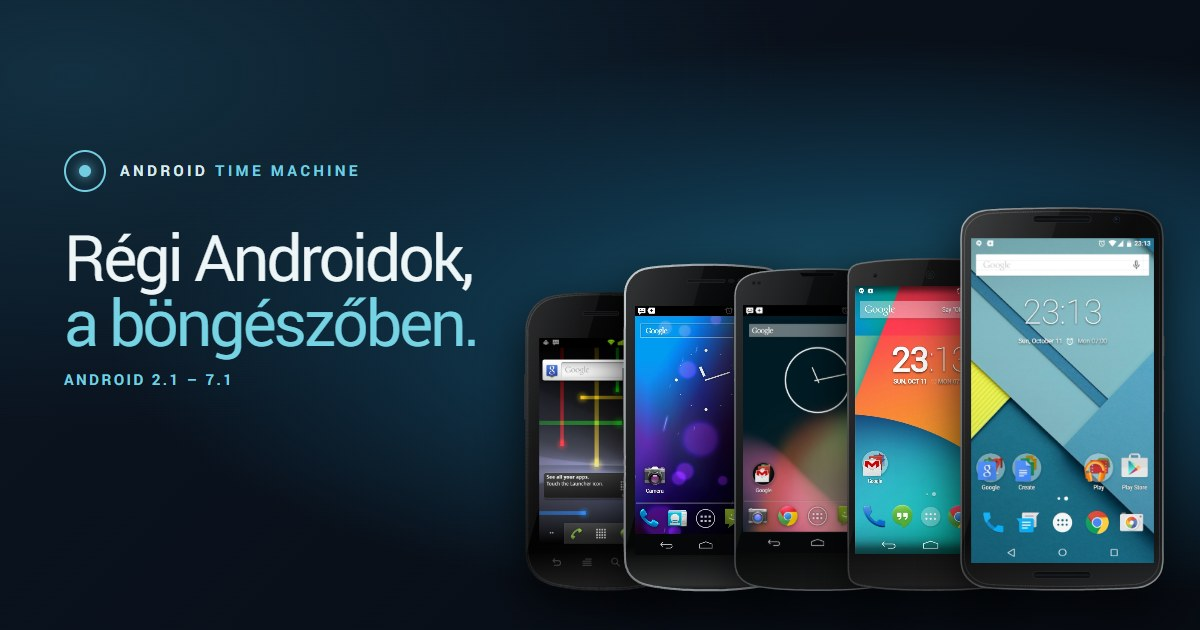
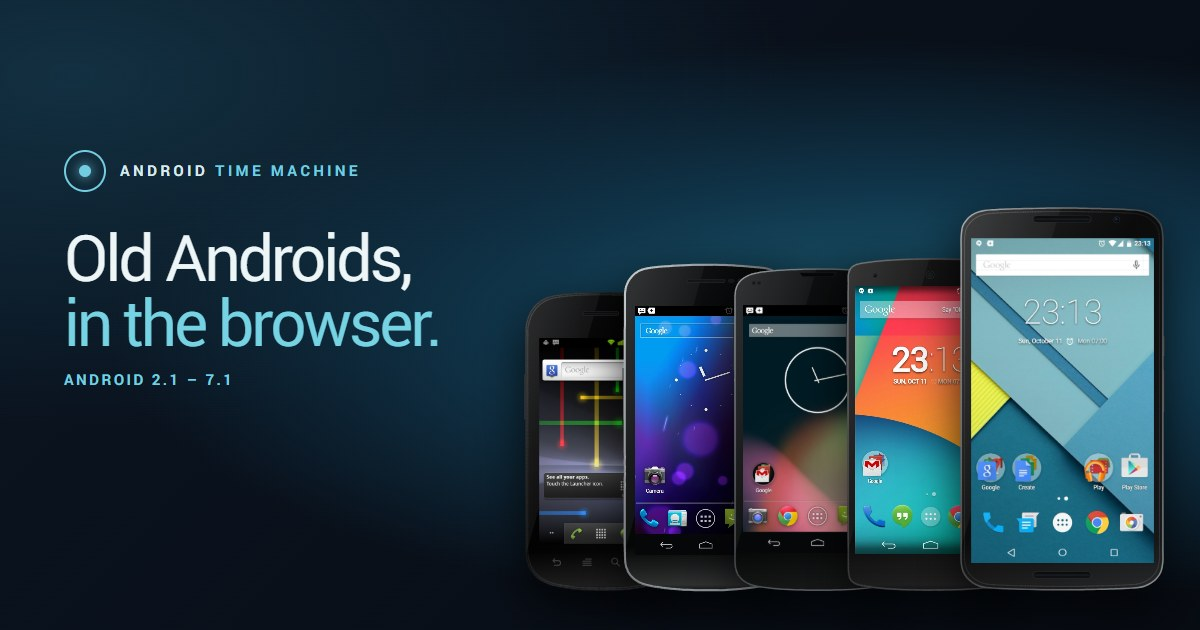
Default SEO and social previews to English and add Hungarian cover variant

Changed region(s): [[0.0617, 0.3619, 0.4008, 0.573]]

diff --git a/versions/2.3.6/index.html b/versions/2.3.6/index.html
@@ -4,19 +4,27 @@
   <meta charset="utf-8">
   <meta name="viewport" content="width=device-width, initial-scale=1, viewport-fit=cover, interactive-widget=resizes-content">
   <meta name="theme-color" content="#080b10">
-  <meta name="description" content="Android 2.3.6 Gingerbread szimulátor a Nexus S-en: érintőgombok az üveg alatt, csúszkás zárolóképernyő, a Menü gombbal nyíló opciópanelek és a zombi Gingerbread húsvéti tojás.">
-  <title>Android 2.3.6 · Android Time Machine</title>
+  <meta name="description" content="Touch keys under the glass, the SlidingTab lock screen, option panels behind the Menu key, green status icons and the zombie Gingerbread easter egg.">
+  <title>Android 2.3.6 Gingerbread Â· Android Time Machine</title>
   <meta property="og:type" content="website">
   <meta property="og:site_name" content="Android Time Machine">
-  <meta property="og:locale" content="hu_HU">
-  <meta property="og:title" content="Android 2.3.6 Gingerbread – Nexus S szimulátor">
-  <meta property="og:description" content="Érintőgombok az üveg alatt, csúszkás zárolóképernyő, a Menü gombbal nyíló opciópanelek, zöld állapotikonok és a zombi Gingerbread húsvéti tojás.">
+  <meta property="og:locale" content="en_US">
+  <meta property="og:locale:alternate" content="hu_HU">
+  <meta property="og:locale:alternate" content="de_DE">
+  <meta property="og:locale:alternate" content="fr_FR">
+  <meta property="og:locale:alternate" content="es_ES">
+  <meta property="og:title" content="Android 2.3.6 Gingerbread â€“ Nexus S · Google simulator">
+  <meta property="og:description" content="Touch keys under the glass, the SlidingTab lock screen, option panels behind the Menu key, green status icons and the zombie Gingerbread easter egg.">
   <meta property="og:url" content="https://android.levente.net/versions/2.3.6/">
-  <meta property="og:image" content="https://android.levente.net/assets/og-cover.jpg?v=17">
+  <meta property="og:image" content="https://android.levente.net/assets/og-cover.jpg?v=18">
   <meta property="og:image:type" content="image/jpeg">
   <meta property="og:image:width" content="1200">
   <meta property="og:image:height" content="630">
-  <meta property="og:image:alt" content="Öt Nexus telefon egymás mellett a saját Android-verziójával: Nexus S (2.3), Galaxy Nexus (4.0), Nexus 4 (4.3), Nexus 5 (4.4) és Nexus 6 (5.1), mellettük az Android Time Machine felirat.">
+  <meta property="og:image:alt" content="Five Nexus phones showing their Android home screens beside the Android Time Machine title.">
+  <meta name="twitter:title" content="Android 2.3.6 Gingerbread â€“ Nexus S · Google simulator">
+  <meta name="twitter:description" content="Touch keys under the glass, the SlidingTab lock screen, option panels behind the Menu key, green status icons and the zombie Gingerbread easter egg.">
+  <meta name="twitter:image" content="https://android.levente.net/assets/og-cover.jpg?v=18">
+  <meta name="twitter:image:alt" content="Five Nexus phones showing their Android home screens beside the Android Time Machine title.">
   <meta name="twitter:card" content="summary_large_image">
   <link rel="icon" type="image/svg+xml" href="../../favicon.svg">
   <link rel="stylesheet" href="style.css?v=52">

diff --git a/index.html b/index.html
@@ -4,19 +4,27 @@
   <meta charset="utf-8">
   <meta name="viewport" content="width=device-width, initial-scale=1">
   <meta name="theme-color" content="#090d17">
-  <meta name="description" content="Régi Android-verziók a böngészőben: az Eclair, a Gingerbread, az Ice Cream Sandwich, a Jelly Bean, a KitKat, a Lollipop, a Marshmallow és a Nougat azon a Nexus telefonon, amelyen megjelent. Telepítés nélkül, azonnal.">
+  <meta name="description" content="Explore Android 2.1â€“7.1 on classic Nexus phones: home screens, notifications, settings and apps, in your browser. Nothing to install.">
   <title>Android Time Machine</title>
   <meta property="og:type" content="website">
   <meta property="og:site_name" content="Android Time Machine">
-  <meta property="og:locale" content="hu_HU">
-  <meta property="og:title" content="Android Time Machine – régi Androidok a böngészőben">
-  <meta property="og:description" content="Android 2.1–7.1 a Nexus One-on, a Nexus S-en, a Galaxy Nexuson, a Nexus 4-en, a Nexus 5-ön, a Nexus 6-on, a Nexus 5X-en és a Nexus 6P-n: kezdőképernyő, értesítések, beállítások és alkalmazások – telepítés nélkül.">
+  <meta property="og:locale" content="en_US">
+  <meta property="og:locale:alternate" content="hu_HU">
+  <meta property="og:locale:alternate" content="de_DE">
+  <meta property="og:locale:alternate" content="fr_FR">
+  <meta property="og:locale:alternate" content="es_ES">
+  <meta property="og:title" content="Android Time Machine â€“ old Androids in the browser">
+  <meta property="og:description" content="Explore Android 2.1â€“7.1 on classic Nexus phones: home screens, notifications, settings and apps, in your browser. Nothing to install.">
   <meta property="og:url" content="https://android.levente.net/">
-  <meta property="og:image" content="https://android.levente.net/assets/og-cover.jpg?v=17">
+  <meta property="og:image" content="https://android.levente.net/assets/og-cover.jpg?v=18">
   <meta property="og:image:type" content="image/jpeg">
   <meta property="og:image:width" content="1200">
   <meta property="og:image:height" content="630">
-  <meta property="og:image:alt" content="Öt Nexus telefon egymás mellett a saját Android-verziójával: Nexus S (2.3), Galaxy Nexus (4.0), Nexus 4 (4.3), Nexus 5 (4.4) és Nexus 6 (5.1), mellettük az Android Time Machine felirat.">
+  <meta property="og:image:alt" content="Five Nexus phones showing their Android home screens beside the Android Time Machine title.">
+  <meta name="twitter:title" content="Android Time Machine â€“ old Androids in the browser">
+  <meta name="twitter:description" content="Explore Android 2.1â€“7.1 on classic Nexus phones: home screens, notifications, settings and apps, in your browser. Nothing to install.">
+  <meta name="twitter:image" content="https://android.levente.net/assets/og-cover.jpg?v=18">
+  <meta name="twitter:image:alt" content="Five Nexus phones showing their Android home screens beside the Android Time Machine title.">
   <meta name="twitter:card" content="summary_large_image">
   <link rel="icon" type="image/svg+xml" href="favicon.svg">
   <link rel="stylesheet" href="styles.css?v=27">

diff --git a/versions/5.1.1/index.html b/versions/5.1.1/index.html
@@ -4,19 +4,27 @@
   <meta charset="utf-8">
   <meta name="viewport" content="width=device-width, initial-scale=1, viewport-fit=cover, interactive-widget=resizes-content">
   <meta name="theme-color" content="#080b10">
-  <meta name="description" content="Android 5.1.1 Lollipop szimulátor a gyári Nexus 6-on: Material Design, Google Now Launcher, felugró értesítések, Áttekintés-kártyák, Smart Lock és a Lollipop Land húsvéti tojás.">
-  <title>Android 5.1.1 · Android Time Machine</title>
+  <meta name="description" content="Material Design, the new notification shade, heads-up notifications, Overview cards and the Lollipop Land easter egg.">
+  <title>Android 5.1.1 Lollipop Â· Android Time Machine</title>
   <meta property="og:type" content="website">
   <meta property="og:site_name" content="Android Time Machine">
-  <meta property="og:locale" content="hu_HU">
-  <meta property="og:title" content="Android 5.1.1 Lollipop – Nexus 6 szimulátor">
-  <meta property="og:description" content="Material Design, Google Now Launcher, felugró értesítések, Áttekintés-kártyák, Smart Lock és a Lollipop Land húsvéti tojás.">
+  <meta property="og:locale" content="en_US">
+  <meta property="og:locale:alternate" content="hu_HU">
+  <meta property="og:locale:alternate" content="de_DE">
+  <meta property="og:locale:alternate" content="fr_FR">
+  <meta property="og:locale:alternate" content="es_ES">
+  <meta property="og:title" content="Android 5.1.1 Lollipop â€“ Nexus 6 · Google simulator">
+  <meta property="og:description" content="Material Design, the new notification shade, heads-up notifications, Overview cards and the Lollipop Land easter egg.">
   <meta property="og:url" content="https://android.levente.net/versions/5.1.1/">
-  <meta property="og:image" content="https://android.levente.net/assets/og-cover.jpg?v=17">
+  <meta property="og:image" content="https://android.levente.net/assets/og-cover.jpg?v=18">
   <meta property="og:image:type" content="image/jpeg">
   <meta property="og:image:width" content="1200">
   <meta property="og:image:height" content="630">
-  <meta property="og:image:alt" content="Öt Nexus telefon egymás mellett a saját Android-verziójával: Nexus S (2.3), Galaxy Nexus (4.0), Nexus 4 (4.3), Nexus 5 (4.4) és Nexus 6 (5.1), mellettük az Android Time Machine felirat.">
+  <meta property="og:image:alt" content="Five Nexus phones showing their Android home screens beside the Android Time Machine title.">
+  <meta name="twitter:title" content="Android 5.1.1 Lollipop â€“ Nexus 6 · Google simulator">
+  <meta name="twitter:description" content="Material Design, the new notification shade, heads-up notifications, Overview cards and the Lollipop Land easter egg.">
+  <meta name="twitter:image" content="https://android.levente.net/assets/og-cover.jpg?v=18">
+  <meta name="twitter:image:alt" content="Five Nexus phones showing their Android home screens beside the Android Time Machine title.">
   <meta name="twitter:card" content="summary_large_image">
   <link rel="icon" type="image/svg+xml" href="../../favicon.svg">
   <link rel="stylesheet" href="style.css?v=29">

diff --git a/versions/4.0.4/index.html b/versions/4.0.4/index.html
@@ -4,19 +4,27 @@
   <meta charset="utf-8">
   <meta name="viewport" content="width=device-width, initial-scale=1, viewport-fit=cover, interactive-widget=resizes-content">
   <meta name="theme-color" content="#080b10">
-  <meta name="description" content="Android 4.0.4 Ice Cream Sandwich szimulátor a Galaxy Nexuson: Holo dizájn, képernyős navigációs gombok, mappák, kamera a zárolóképernyőről és a Nyandroid húsvéti tojás.">
-  <title>Android 4.0.4 · Android Time Machine</title>
+  <meta name="description" content="Holo design, on-screen navigation keys, folders, the lock-screen camera and the Nyandroid easter egg.">
+  <title>Android 4.0.4 Ice Cream Sandwich Â· Android Time Machine</title>
   <meta property="og:type" content="website">
   <meta property="og:site_name" content="Android Time Machine">
-  <meta property="og:locale" content="hu_HU">
-  <meta property="og:title" content="Android 4.0.4 Ice Cream Sandwich – Galaxy Nexus szimulátor">
-  <meta property="og:description" content="Holo dizájn, képernyős navigációs gombok, mappák, kamera a zárolóképernyőről és a Nyandroid húsvéti tojás.">
+  <meta property="og:locale" content="en_US">
+  <meta property="og:locale:alternate" content="hu_HU">
+  <meta property="og:locale:alternate" content="de_DE">
+  <meta property="og:locale:alternate" content="fr_FR">
+  <meta property="og:locale:alternate" content="es_ES">
+  <meta property="og:title" content="Android 4.0.4 Ice Cream Sandwich â€“ Galaxy Nexus · Google simulator">
+  <meta property="og:description" content="Holo design, on-screen navigation keys, folders, the lock-screen camera and the Nyandroid easter egg.">
   <meta property="og:url" content="https://android.levente.net/versions/4.0.4/">
-  <meta property="og:image" content="https://android.levente.net/assets/og-cover.jpg?v=17">
+  <meta property="og:image" content="https://android.levente.net/assets/og-cover.jpg?v=18">
   <meta property="og:image:type" content="image/jpeg">
   <meta property="og:image:width" content="1200">
   <meta property="og:image:height" content="630">
-  <meta property="og:image:alt" content="Öt Nexus telefon egymás mellett a saját Android-verziójával: Nexus S (2.3), Galaxy Nexus (4.0), Nexus 4 (4.3), Nexus 5 (4.4) és Nexus 6 (5.1), mellettük az Android Time Machine felirat.">
+  <meta property="og:image:alt" content="Five Nexus phones showing their Android home screens beside the Android Time Machine title.">
+  <meta name="twitter:title" content="Android 4.0.4 Ice Cream Sandwich â€“ Galaxy Nexus · Google simulator">
+  <meta name="twitter:description" content="Holo design, on-screen navigation keys, folders, the lock-screen camera and the Nyandroid easter egg.">
+  <meta name="twitter:image" content="https://android.levente.net/assets/og-cover.jpg?v=18">
+  <meta name="twitter:image:alt" content="Five Nexus phones showing their Android home screens beside the Android Time Machine title.">
   <meta name="twitter:card" content="summary_large_image">
   <link rel="icon" type="image/svg+xml" href="../../favicon.svg">
   <link rel="stylesheet" href="style.css?v=55">

diff --git a/versions/7.1.2/index.html b/versions/7.1.2/index.html
@@ -4,19 +4,27 @@
   <meta charset="utf-8">
   <meta name="viewport" content="width=device-width, initial-scale=1, viewport-fit=cover, interactive-widget=resizes-content">
   <meta name="theme-color" content="#080b10">
-  <meta name="description" content="Android 7.1.2 Nougat a Nexus 6P-n, a böngészőben: osztott képernyő, csoportosított értesítések, közvetlen válasz, alkalmazások és beállítások. Telepítés nélkül.">
-  <title>Android 7.1.2 · Android Time Machine</title>
+  <meta name="description" content="Split-screen apps, bundled notifications with direct reply, editable quick settings, launcher shortcuts and the Nougat cat easter egg.">
+  <title>Android 7.1.2 Nougat Â· Android Time Machine</title>
   <meta property="og:type" content="website">
   <meta property="og:site_name" content="Android Time Machine">
-  <meta property="og:locale" content="hu_HU">
-  <meta property="og:title" content="Android 7.1.2 Nougat – Nexus 6P">
-  <meta property="og:description" content="Próbáld ki a Nougatot a Nexus 6P-n: osztott képernyő, közvetlen válasz az értesítésekben, gyorsbeállítások, Gboard és a korabeli Google-alkalmazások, a böngészőben.">
+  <meta property="og:locale" content="en_US">
+  <meta property="og:locale:alternate" content="hu_HU">
+  <meta property="og:locale:alternate" content="de_DE">
+  <meta property="og:locale:alternate" content="fr_FR">
+  <meta property="og:locale:alternate" content="es_ES">
+  <meta property="og:title" content="Android 7.1.2 Nougat â€“ Nexus 6P · Google simulator">
+  <meta property="og:description" content="Split-screen apps, bundled notifications with direct reply, editable quick settings, launcher shortcuts and the Nougat cat easter egg.">
   <meta property="og:url" content="https://android.levente.net/versions/7.1.2/">
-  <meta property="og:image" content="https://android.levente.net/assets/og-cover.jpg?v=17">
+  <meta property="og:image" content="https://android.levente.net/assets/og-cover.jpg?v=18">
   <meta property="og:image:type" content="image/jpeg">
   <meta property="og:image:width" content="1200">
   <meta property="og:image:height" content="630">
-  <meta property="og:image:alt" content="Nexus telefonok egymás mellett a saját Android-verziójukkal, mellettük az Android Time Machine felirat.">
+  <meta property="og:image:alt" content="Five Nexus phones showing their Android home screens beside the Android Time Machine title.">
+  <meta name="twitter:title" content="Android 7.1.2 Nougat â€“ Nexus 6P · Google simulator">
+  <meta name="twitter:description" content="Split-screen apps, bundled notifications with direct reply, editable quick settings, launcher shortcuts and the Nougat cat easter egg.">
+  <meta name="twitter:image" content="https://android.levente.net/assets/og-cover.jpg?v=18">
+  <meta name="twitter:image:alt" content="Five Nexus phones showing their Android home screens beside the Android Time Machine title.">
   <meta name="twitter:card" content="summary_large_image">
   <link rel="icon" type="image/svg+xml" href="../../favicon.svg">
   <link rel="stylesheet" href="ng-site.css?v=1">

diff --git a/versions/2.1/index.html b/versions/2.1/index.html
@@ -4,19 +4,27 @@
   <meta charset="utf-8">
   <meta name="viewport" content="width=device-width, initial-scale=1, viewport-fit=cover, interactive-widget=resizes-content">
   <meta name="theme-color" content="#080b10">
-  <meta name="description" content="Android 2.1 Eclair szimulátor a Nexus One-on: érintőgombok és trackball a kijelző alatt, élő háttérképek, a 3D-s alkalmazásfiók és a 2010-es Google-alkalmazások.">
-  <title>Android 2.1 · Android Time Machine</title>
+  <meta name="description" content="The first Nexus: the trackball, live wallpapers, the 3D app drawer and the Google apps of 2010, rebuilt from the phone’s own system image.">
+  <title>Android 2.1 Eclair Â· Android Time Machine</title>
   <meta property="og:type" content="website">
   <meta property="og:site_name" content="Android Time Machine">
-  <meta property="og:locale" content="hu_HU">
-  <meta property="og:title" content="Android 2.1 Eclair – Nexus One szimulátor">
-  <meta property="og:description" content="Érintőgombok és trackball a kijelző alatt, élő háttérképek, a 3D-s alkalmazásfiók és a 2010-es Google-alkalmazások.">
+  <meta property="og:locale" content="en_US">
+  <meta property="og:locale:alternate" content="hu_HU">
+  <meta property="og:locale:alternate" content="de_DE">
+  <meta property="og:locale:alternate" content="fr_FR">
+  <meta property="og:locale:alternate" content="es_ES">
+  <meta property="og:title" content="Android 2.1 Eclair â€“ Nexus One · Google simulator">
+  <meta property="og:description" content="The first Nexus: the trackball, live wallpapers, the 3D app drawer and the Google apps of 2010, rebuilt from the phone’s own system image.">
   <meta property="og:url" content="https://android.levente.net/versions/2.1/">
-  <meta property="og:image" content="https://android.levente.net/assets/og-cover.jpg?v=17">
+  <meta property="og:image" content="https://android.levente.net/assets/og-cover.jpg?v=18">
   <meta property="og:image:type" content="image/jpeg">
   <meta property="og:image:width" content="1200">
   <meta property="og:image:height" content="630">
-  <meta property="og:image:alt" content="Nexus telefonok egymás mellett a saját Android-verziójukkal, mellettük az Android Time Machine felirat.">
+  <meta property="og:image:alt" content="Five Nexus phones showing their Android home screens beside the Android Time Machine title.">
+  <meta name="twitter:title" content="Android 2.1 Eclair â€“ Nexus One · Google simulator">
+  <meta name="twitter:description" content="The first Nexus: the trackball, live wallpapers, the 3D app drawer and the Google apps of 2010, rebuilt from the phone’s own system image.">
+  <meta name="twitter:image" content="https://android.levente.net/assets/og-cover.jpg?v=18">
+  <meta name="twitter:image:alt" content="Five Nexus phones showing their Android home screens beside the Android Time Machine title.">
   <meta name="twitter:card" content="summary_large_image">
   <link rel="icon" type="image/svg+xml" href="../../favicon.svg">
   <link rel="stylesheet" href="ec-site.css?v=2">

diff --git a/versions/4.4.4/index.html b/versions/4.4.4/index.html
@@ -4,19 +4,27 @@
   <meta charset="utf-8">
   <meta name="viewport" content="width=device-width, initial-scale=1, viewport-fit=cover, interactive-widget=resizes-content">
   <meta name="theme-color" content="#080b10">
-  <meta name="description" content="Android 4.4.4 KitKat szimulátor a gyári Nexus 5-ön: Google Now Launcher, Google Now, Hangouts, Chrome, áttetsző rendszersávok és a Dessert Case húsvéti tojás.">
-  <title>Android 4.4.4 · Android Time Machine</title>
+  <meta name="description" content="Google Now Launcher, Google Now, Hangouts, Chrome, translucent system bars and the Dessert Case easter egg.">
+  <title>Android 4.4.4 KitKat Â· Android Time Machine</title>
   <meta property="og:type" content="website">
   <meta property="og:site_name" content="Android Time Machine">
-  <meta property="og:locale" content="hu_HU">
-  <meta property="og:title" content="Android 4.4.4 KitKat – Nexus 5 szimulátor">
-  <meta property="og:description" content="Google Now Launcher, Google Now, Hangouts, Chrome, áttetsző rendszersávok és a Dessert Case húsvéti tojás.">
+  <meta property="og:locale" content="en_US">
+  <meta property="og:locale:alternate" content="hu_HU">
+  <meta property="og:locale:alternate" content="de_DE">
+  <meta property="og:locale:alternate" content="fr_FR">
+  <meta property="og:locale:alternate" content="es_ES">
+  <meta property="og:title" content="Android 4.4.4 KitKat â€“ Nexus 5 · Google simulator">
+  <meta property="og:description" content="Google Now Launcher, Google Now, Hangouts, Chrome, translucent system bars and the Dessert Case easter egg.">
   <meta property="og:url" content="https://android.levente.net/versions/4.4.4/">
-  <meta property="og:image" content="https://android.levente.net/assets/og-cover.jpg?v=17">
+  <meta property="og:image" content="https://android.levente.net/assets/og-cover.jpg?v=18">
   <meta property="og:image:type" content="image/jpeg">
   <meta property="og:image:width" content="1200">
   <meta property="og:image:height" content="630">
-  <meta property="og:image:alt" content="Öt Nexus telefon egymás mellett a saját Android-verziójával: Nexus S (2.3), Galaxy Nexus (4.0), Nexus 4 (4.3), Nexus 5 (4.4) és Nexus 6 (5.1), mellettük az Android Time Machine felirat.">
+  <meta property="og:image:alt" content="Five Nexus phones showing their Android home screens beside the Android Time Machine title.">
+  <meta name="twitter:title" content="Android 4.4.4 KitKat â€“ Nexus 5 · Google simulator">
+  <meta name="twitter:description" content="Google Now Launcher, Google Now, Hangouts, Chrome, translucent system bars and the Dessert Case easter egg.">
+  <meta name="twitter:image" content="https://android.levente.net/assets/og-cover.jpg?v=18">
+  <meta name="twitter:image:alt" content="Five Nexus phones showing their Android home screens beside the Android Time Machine title.">
   <meta name="twitter:card" content="summary_large_image">
   <link rel="icon" type="image/svg+xml" href="../../favicon.svg">
   <link rel="stylesheet" href="style.css?v=31">

diff --git a/versions/4.3/index.html b/versions/4.3/index.html
@@ -4,19 +4,27 @@
   <meta charset="utf-8">
   <meta name="viewport" content="width=device-width, initial-scale=1, viewport-fit=cover, interactive-widget=resizes-content">
   <meta name="theme-color" content="#080b10">
-  <meta name="description" content="Android 4.3 Jelly Bean szimulátor a Nexus 4-en: kinyitható értesítések, gyorsbeállítások, widgetek a zárolóképernyőn, Daydream és a BeanBag húsvéti tojás.">
-  <title>Android 4.3 · Android Time Machine</title>
+  <meta name="description" content="Expandable notifications, Quick Settings, lock-screen widgets, Daydream and the BeanBag easter egg.">
+  <title>Android 4.3 Jelly Bean Â· Android Time Machine</title>
   <meta property="og:type" content="website">
   <meta property="og:site_name" content="Android Time Machine">
-  <meta property="og:locale" content="hu_HU">
-  <meta property="og:title" content="Android 4.3 Jelly Bean – Nexus 4 szimulátor">
-  <meta property="og:description" content="Kinyitható értesítések, gyorsbeállítások, widgetek a zárolóképernyőn, Daydream és a BeanBag húsvéti tojás.">
+  <meta property="og:locale" content="en_US">
+  <meta property="og:locale:alternate" content="hu_HU">
+  <meta property="og:locale:alternate" content="de_DE">
+  <meta property="og:locale:alternate" content="fr_FR">
+  <meta property="og:locale:alternate" content="es_ES">
+  <meta property="og:title" content="Android 4.3 Jelly Bean â€“ Nexus 4 · Google simulator">
+  <meta property="og:description" content="Expandable notifications, Quick Settings, lock-screen widgets, Daydream and the BeanBag easter egg.">
   <meta property="og:url" content="https://android.levente.net/versions/4.3/">
-  <meta property="og:image" content="https://android.levente.net/assets/og-cover.jpg?v=17">
+  <meta property="og:image" content="https://android.levente.net/assets/og-cover.jpg?v=18">
   <meta property="og:image:type" content="image/jpeg">
   <meta property="og:image:width" content="1200">
   <meta property="og:image:height" content="630">
-  <meta property="og:image:alt" content="Öt Nexus telefon egymás mellett a saját Android-verziójával: Nexus S (2.3), Galaxy Nexus (4.0), Nexus 4 (4.3), Nexus 5 (4.4) és Nexus 6 (5.1), mellettük az Android Time Machine felirat.">
+  <meta property="og:image:alt" content="Five Nexus phones showing their Android home screens beside the Android Time Machine title.">
+  <meta name="twitter:title" content="Android 4.3 Jelly Bean â€“ Nexus 4 · Google simulator">
+  <meta name="twitter:description" content="Expandable notifications, Quick Settings, lock-screen widgets, Daydream and the BeanBag easter egg.">
+  <meta name="twitter:image" content="https://android.levente.net/assets/og-cover.jpg?v=18">
+  <meta name="twitter:image:alt" content="Five Nexus phones showing their Android home screens beside the Android Time Machine title.">
   <meta name="twitter:card" content="summary_large_image">
   <link rel="icon" type="image/svg+xml" href="../../favicon.svg">
   <link rel="stylesheet" href="style.css?v=30">

diff --git a/versions/6.0.1/index.html b/versions/6.0.1/index.html
@@ -4,19 +4,27 @@
   <meta charset="utf-8">
   <meta name="viewport" content="width=device-width, initial-scale=1, viewport-fit=cover, interactive-widget=resizes-content">
   <meta name="theme-color" content="#080b10">
-  <meta name="description" content="Készülőben: Android 6.0.1 Marshmallow a Nexus 5X-en – a következő verzió az Android Time Machine-ben.">
-  <title>Android 6.0.1 · Android Time Machine</title>
+  <meta name="description" content="Marshmallow on the Nexus 5X: Now on Tap, Doze, app permissions, Nexus Imprint and the vertically scrolling app drawer.">
+  <title>Android 6.0.1 Marshmallow Â· Android Time Machine</title>
   <meta property="og:type" content="website">
   <meta property="og:site_name" content="Android Time Machine">
-  <meta property="og:locale" content="hu_HU">
-  <meta property="og:title" content="Android 6.0.1 Marshmallow – Nexus 5X (készülőben)">
-  <meta property="og:description" content="A következő verzió: Android 6.0.1 Marshmallow a Nexus 5X-en. Hamarosan az Android Time Machine-ben.">
+  <meta property="og:locale" content="en_US">
+  <meta property="og:locale:alternate" content="hu_HU">
+  <meta property="og:locale:alternate" content="de_DE">
+  <meta property="og:locale:alternate" content="fr_FR">
+  <meta property="og:locale:alternate" content="es_ES">
+  <meta property="og:title" content="Android 6.0.1 Marshmallow â€“ Nexus 5X · Google simulator">
+  <meta property="og:description" content="Marshmallow on the Nexus 5X: Now on Tap, Doze, app permissions, Nexus Imprint and the vertically scrolling app drawer.">
   <meta property="og:url" content="https://android.levente.net/versions/6.0.1/">
-  <meta property="og:image" content="https://android.levente.net/assets/og-cover.jpg?v=17">
+  <meta property="og:image" content="https://android.levente.net/assets/og-cover.jpg?v=18">
   <meta property="og:image:type" content="image/jpeg">
   <meta property="og:image:width" content="1200">
   <meta property="og:image:height" content="630">
-  <meta property="og:image:alt" content="Nexus telefonok egymás mellett a saját Android-verziójukkal, mellettük az Android Time Machine felirat.">
+  <meta property="og:image:alt" content="Five Nexus phones showing their Android home screens beside the Android Time Machine title.">
+  <meta name="twitter:title" content="Android 6.0.1 Marshmallow â€“ Nexus 5X · Google simulator">
+  <meta name="twitter:description" content="Marshmallow on the Nexus 5X: Now on Tap, Doze, app permissions, Nexus Imprint and the vertically scrolling app drawer.">
+  <meta name="twitter:image" content="https://android.levente.net/assets/og-cover.jpg?v=18">
+  <meta name="twitter:image:alt" content="Five Nexus phones showing their Android home screens beside the Android Time Machine title.">
   <meta name="twitter:card" content="summary_large_image">
   <link rel="icon" type="image/svg+xml" href="../../favicon.svg">
   <link rel="stylesheet" href="mm-site.css?v=1">

diff --git a/docs/tools/og-cover.html b/docs/tools/og-cover.html
@@ -1,6 +1,6 @@
 <!doctype html>
-<!-- Source of assets/og-cover.jpg (1200 x 630). Regenerate with: node docs/tools/make-og-cover.mjs -->
-<html><head><meta charset="utf-8"><style>
+<!-- Source of assets/og-cover.jpg (English) and og-cover-hu.jpg (Hungarian), 1200 x 630. -->
+<html lang="en"><head><meta charset="utf-8"><style>
 @font-face{font-family:Roboto;src:url('../../versions/4.4.4/assets/Roboto-Regular.ttf')}
 @font-face{font-family:RobotoLight;src:url('../../versions/4.4.4/assets/Roboto-Light.ttf')}
 @font-face{font-family:RobotoBold;src:url('../../versions/4.4.4/assets/Roboto-Bold.ttf')}
@@ -23,11 +23,15 @@ h1 strong{display:block;font-weight:400;color:#75d3e3}
 </style></head><body>
 <div class="text">
   <div class="brand"><i></i><div>ANDROID <span>TIME MACHINE</span></div></div>
-  <h1>Régi Androidok,<strong>a böngészőben.</strong></h1>
+  <h1>Old Androids,<strong>in the browser.</strong></h1>
   <div class="range">ANDROID 2.1 – 7.1</div>
 </div>
 <div class="phones" id="phones"></div>
 <script>
+if (new URLSearchParams(location.search).get('lang') === 'hu') {
+  document.documentElement.lang = 'hu';
+  document.querySelector('h1').innerHTML = 'Régi Androidok,<strong>a böngészőben.</strong>';
+}
 const mm = 2.4;
 // [version, frame, SVG width / height, real height in mm, screen insets %, body top and bottom in SVG units, picture]
 // The SVGs have a margin round the body (side keys, shadow), so the body, not the whole drawing, is scaled to the real height.

diff --git a/README.md b/README.md
@@ -1,6 +1,6 @@
 # Android Simulator
 
-![Android Time Machine: the Nexus S, Galaxy Nexus, Nexus 4 and Nexus 5, each running its own Android version](assets/og-cover.jpg)
+![Android Time Machine: five Nexus phones running classic Android versions](assets/og-cover.jpg?v=18)
 
 **Live demo:** [android.levente.net](https://android.levente.net/)
 
@@ -46,8 +46,9 @@ What each version does, screen by screen:
 
 ## Social preview image
 
-`assets/og-cover.jpg` (1200 × 630) is the `og:image` of every page. Its source is `docs/tools/og-cover.html`, which lays out the phones from each version's frame and `landing-home.jpg`. To redraw it after a change, for example when a new version gets a landing shot, run the command below. It needs only Node and a local Chrome, or set `CHROME` to point at one. Then bump the `?v=` of `og-cover.jpg` in the `og:image` tags.
+`assets/og-cover.jpg` is the English social preview; `assets/og-cover-hu.jpg` is its Hungarian counterpart. Both are 1200 × 630 and are rendered together from `docs/tools/og-cover.html`, using each phone's frame and `landing-home.jpg`. Run `node docs/tools/make-og-cover.mjs` with local Chrome (or set `CHROME`) to regenerate both.
 
+Every page ships English SEO, Open Graph and X/Twitter tags directly in its HTML. The English cover is the stable default for sharing, independent of the interface language selected in JavaScript. The Hungarian image remains separately available. Metadata comes from the English release catalogue: `node docs/tools/make-social-meta.mjs` updates all pages; `--check` verifies them. When the cover changes, bump its image revision in that script and regenerate the metadata.
 The portfolio card on levente.net uses a 1600 × 960 variant with an English headline, from `docs/tools/portfolio-cover.html`: `node docs/tools/make-og-cover.mjs --portfolio <png>` renders it (1200 × 720 at a 4/3 device pixel ratio).
 
 ```bash
